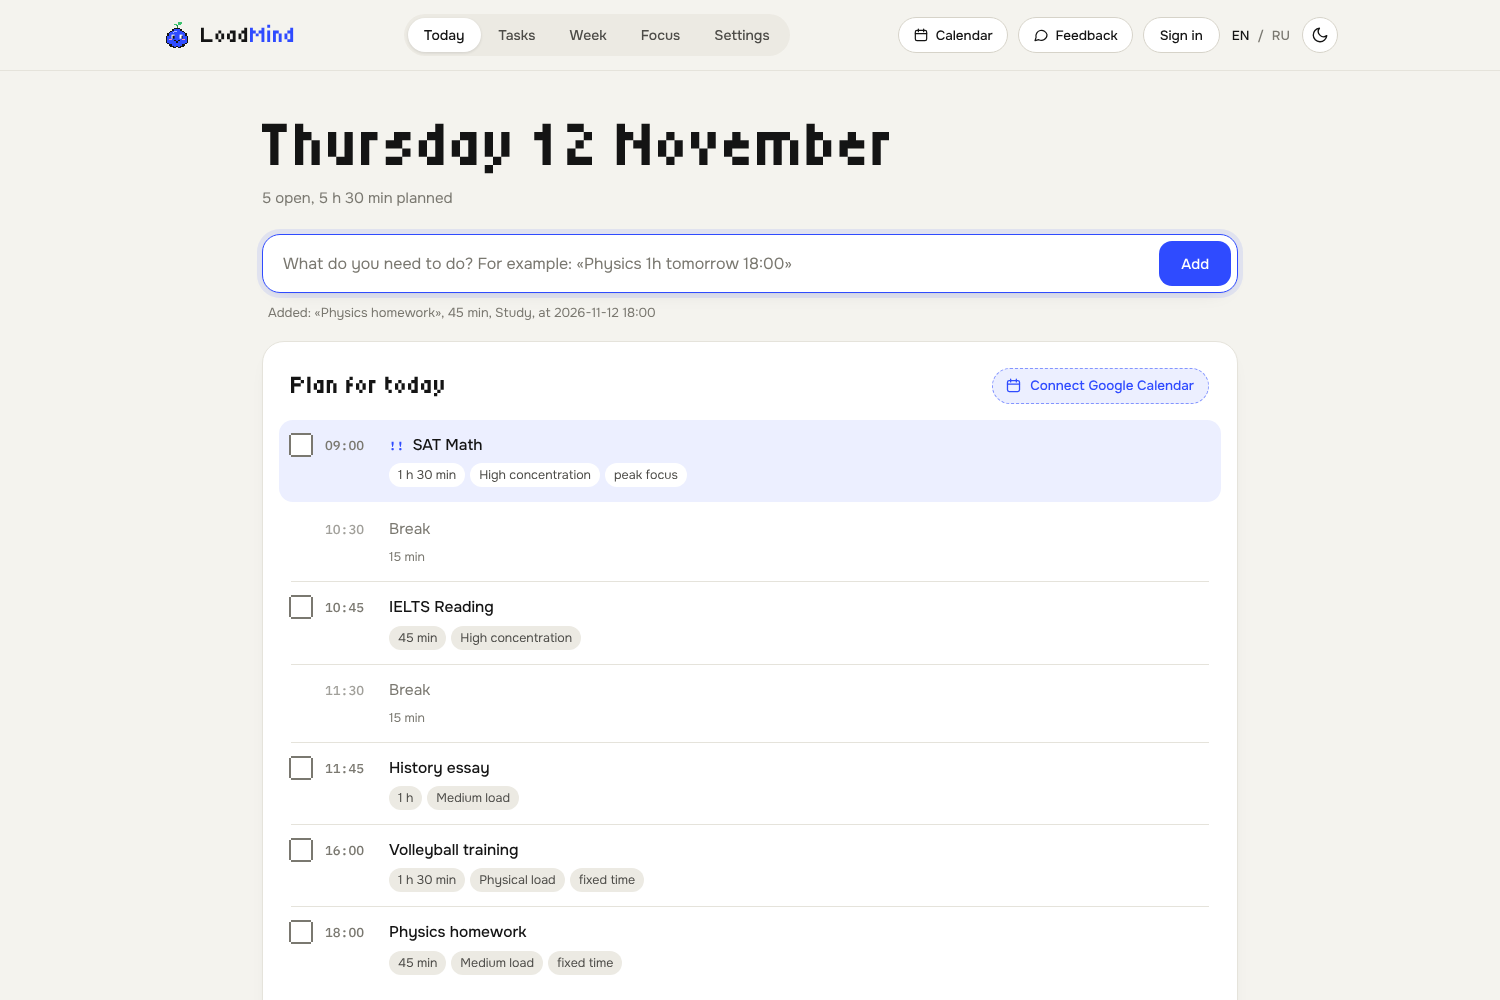
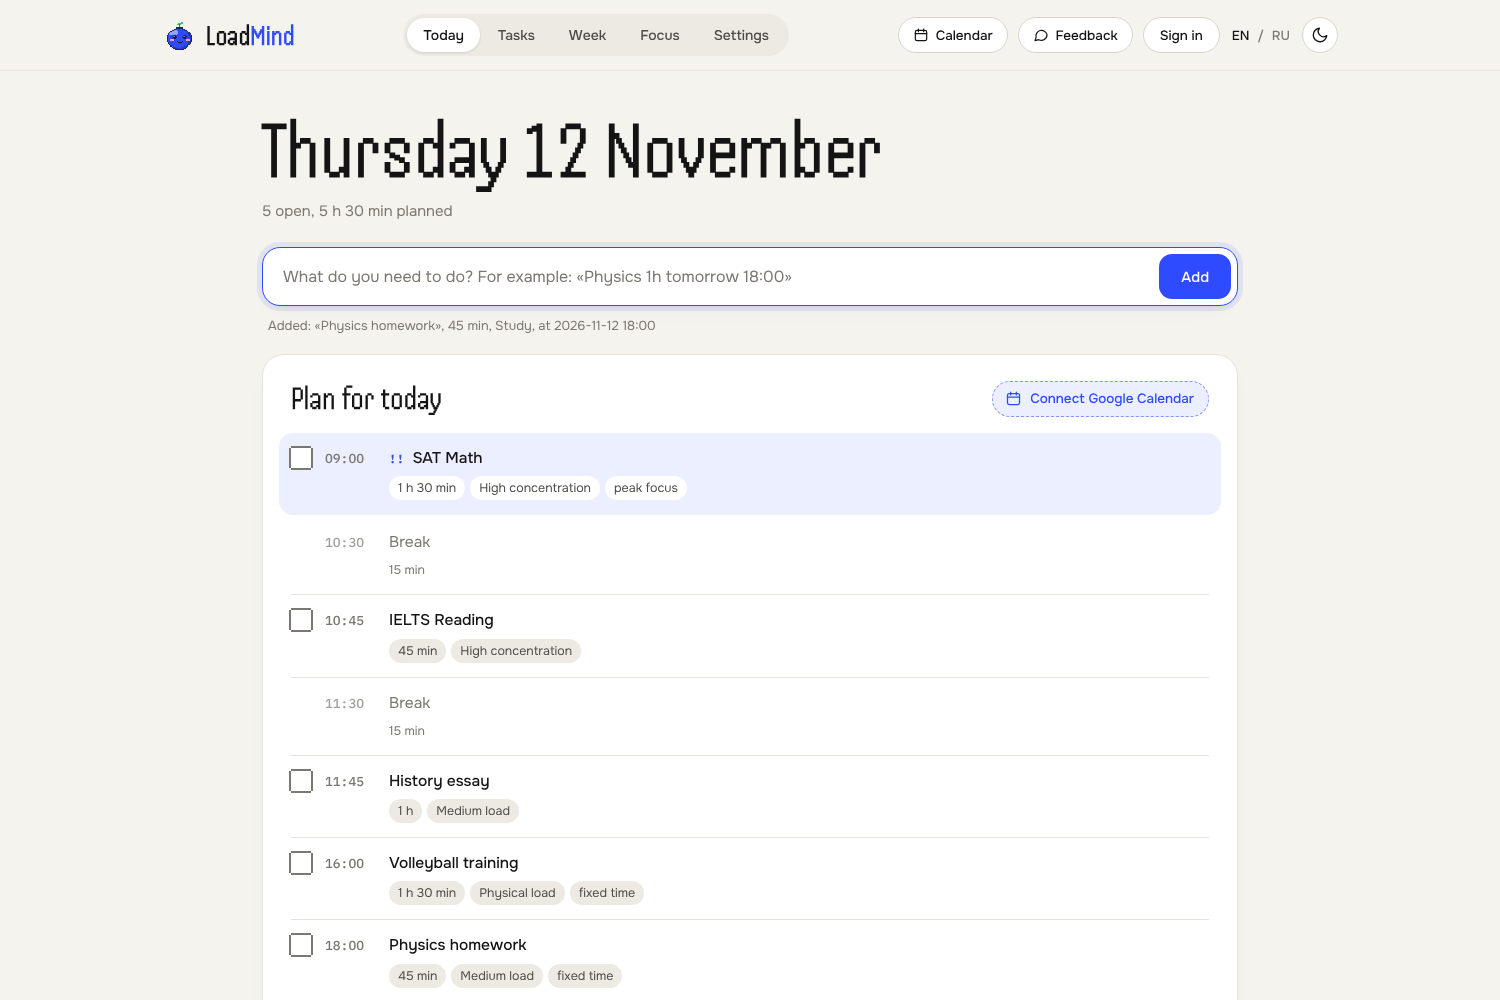
Softer pixels: finer Loady and a thinner pixel font
Loady is now drawn on a grid twice as fine (26 x 24), worked out from an
ellipse, with a dark blue outline instead of black, light from the top left,
a dithered shade and round eyes with a highlight. Headings and numbers use
LoadMind Pixel, a cut of Handjet (OFL) with a plain zero, instead of Tiny5.
Bars, the speech bubble and the section transition use smaller pixels.

diff --git a/mascot.js b/mascot.js
@@ -1,40 +1,41 @@
-/* Loady, the LoadMind character: a small pixel blob that shows how heavy the day is.
+/* Loady, the LoadMind character: a small pixel blueberry that shows how heavy the day is.
    It breathes and blinks, gets worried and sweats when the day is overloaded, sleeps when there is nothing
    to do, and jumps when a task is done. Drawn as SVG squares, coloured with the accent colour. */
 (function () {
-    // 16 x 15 pixels. O outline, B body, H highlight, C cheek. Eyes, mouth and extras are drawn per mood.
-    const BODY = [
-        "......OOOO......",
-        "....OOBBBBOO....",
-        "...OBBHHBBBBO...",
-        "..OBBHBBBBBBBO..",
-        ".OBBBBBBBBBBBBO.",
-        ".OBBBBBBBBBBBBO.",
-        "OBBBBBBBBBBBBBBO",
-        "OBBBBBBBBBBBBBBO",
-        "OBCCBBBBBBBBCCBO",
-        "OBBBBBBBBBBBBBBO",
-        "OBBBBBBBBBBBBBBO",
-        ".OBBBBBBBBBBBBO.",
-        "..OOBBBBBBBBOO..",
-        "...OOOBOOBOOO...",
-        ".....OO..OO.....",
-    ];
-    // [x, y] pixels of each part, on the same grid
+    // 26 x 24 pixels, worked out from an ellipse: o outline, b body, h light, d shade, c cheeks.
+    // Eyes, mouth and extras are drawn per mood on the same grid.
+    const W = 26, H = 24;
+    const BODY = (() => {
+        const g = [], cx = 12.5, cy = 12.6, rx = 11.6, ry = 10.6;
+        for (let y = 0; y < H; y++) { g[y] = []; for (let x = 0; x < W; x++) g[y][x] = ((x + .5 - cx) / rx) ** 2 + ((y + .5 - cy) / ry) ** 2 <= 1 ? "b" : "."; }
+        const inside = (x, y) => g[y] && g[y][x] && g[y][x] !== ".";
+        for (let y = 0; y < H; y++) for (let x = 0; x < W; x++)
+            if (inside(x, y) && (!inside(x - 1, y) || !inside(x + 1, y) || !inside(x, y - 1) || !inside(x, y + 1))) g[y][x] = "o";
+        for (let y = 0; y < H; y++) for (let x = 0; x < W; x++) if (g[y][x] === "b") {
+            const d = ((x + .5 - cx) / rx) ** 2 + ((y + .5 - cy) / ry) ** 2;
+            if ((x - 6) ** 2 / 20 + (y - 6) ** 2 / 9 < 1) g[y][x] = "h";                 // light from the top left
+            else if (d > .58 && x + y > 26 && !(d < .72 && (x + y) % 2)) g[y][x] = "d";   // a soft crescent of shade, dithered at its edge
+        }
+        [[4, 13], [5, 13], [6, 13], [4, 14], [5, 14], [6, 14], [19, 13], [20, 13], [21, 13], [19, 14], [20, 14], [21, 14]].forEach(([x, y]) => g[y][x] = "c");
+        return g;
+    })();
+    const SPROUT = [[12, -1], [12, 0], [12, 1]].map(p => [...p, "lt"])
+        .concat([[14, -3], [15, -3], [11, -2], [12, -2], [13, -2], [14, -2], [15, -2], [10, -1], [11, -1], [13, -1]].map(p => [...p, "lg"]));
+    const open = x => [[x, 9], [x + 1, 9], [x - 1, 10], [x, 10, "w"], [x + 1, 10], [x + 2, 10], [x - 1, 11], [x, 11], [x + 1, 11], [x + 2, 11], [x, 12], [x + 1, 12]];
     const EYES = {
-        open: { w: [[4, 5], [5, 5], [10, 5], [11, 5], [4, 6], [10, 6], [4, 7], [10, 7]], p: [[5, 6], [5, 7], [11, 6], [11, 7]] },
-        closed: { p: [[4, 7], [5, 7], [10, 7], [11, 7]] },
-        happy: { p: [[4, 6], [5, 5], [6, 6], [10, 6], [11, 5], [12, 6]] },
-        worried: { w: [[4, 6], [5, 6], [10, 6], [11, 6], [4, 7], [10, 7]], p: [[5, 7], [11, 7], [4, 4], [5, 5], [11, 4], [10, 5]] },
-        squeeze: { p: [[4, 5], [5, 6], [4, 7], [11, 5], [10, 6], [11, 7]] },
+        open: [...open(7), ...open(16)],
+        closed: [[6, 11], [7, 11], [8, 11], [9, 11], [15, 11], [16, 11], [17, 11], [18, 11]],
+        happy: [[6, 11], [7, 10], [8, 10], [9, 11], [15, 11], [16, 10], [17, 10], [18, 11]],
+        worried: [...open(7), ...open(16), [6, 7], [7, 7], [8, 6], [17, 6], [18, 7], [19, 7]],
+        squeeze: [[6, 9], [7, 10], [8, 11], [7, 12], [6, 13], [19, 9], [18, 10], [17, 11], [18, 12], [19, 13]],
     };
     const MOUTH = {
-        smile: [[6, 9], [7, 10], [8, 10], [9, 9]],
-        flat: [[6, 10], [7, 10], [8, 10], [9, 10]],
-        small: [[7, 10], [8, 10]],
-        o: [[7, 9], [8, 9], [7, 10], [8, 10]],
-        wave: [[5, 10], [6, 9], [7, 10], [8, 9], [9, 10], [10, 9]],
-        big: [[5, 9], [6, 10], [7, 10], [8, 10], [9, 10], [10, 9], [6, 9], [9, 9]],
+        smile: [[10, 15], [11, 16], [12, 16], [13, 16], [14, 16], [15, 15]],
+        flat: [[10, 16], [11, 16], [12, 16], [13, 16], [14, 16], [15, 16]],
+        small: [[12, 16], [13, 16]],
+        o: [[12, 15], [13, 15], [11, 16], [14, 16], [12, 17], [13, 17]],
+        wave: [[9, 16], [10, 15], [11, 16], [12, 15], [13, 16], [14, 15], [15, 16], [16, 15]],
+        big: [[9, 14], [10, 14], [11, 14], [12, 14], [13, 14], [14, 14], [15, 14], [16, 14], [10, 15], [15, 15], [11, 16], [12, 16], [13, 16], [14, 16], [11, 15, "t"], [12, 15, "t"], [13, 15, "t"], [14, 15, "t"]],
     };
     const MOODS = {
         calm: { eyes: "open", mouth: "smile", say: ["A light day. Time for a walk too", "Лёгкий день. Можно и погулять"] },
@@ -42,31 +43,28 @@
         busy: { eyes: "worried", mouth: "o", sweat: 1, say: ["That's a lot. Let's drop something", "Многовато. Давай что-то перенесём"] },
         over: { eyes: "squeeze", mouth: "wave", sweat: 2, steam: true, say: ["Too much! Press «Unload today»", "Это слишком! Жми «Разгрузить сегодня»"] },
         sleep: { eyes: "closed", mouth: "small", zzz: true, say: ["Nothing planned. I'm resting", "Пока ничего нет. Я отдыхаю"] },
-        happy: { eyes: "happy", mouth: "big", say: ["Done! One less", "Готово! Минус одна"] },
+        happy: { eyes: "happy", mouth: "big", stars: true, say: ["Done! One less", "Готово! Минус одна"] },
     };
     const LEVEL_MOOD = ["calm", "ok", "busy", "over"];
     const isRuNow = () => typeof isRu === "function" && isRu();
+    const CLS = { o: "lo", b: "lb", h: "lh", d: "ld2", c: "lc" };
 
-    const rect = (x, y, cls) => `<rect x="${x}" y="${y}" width="1.02" height="1.02" class="${cls}"/>`;
+    const rect = (x, y, cls) => `<rect x="${x}" y="${y}" width="1" height="1" class="${cls}"/>`;
+    const dots = (pts, cls) => pts.map(([x, y, k]) => rect(x, y, k === "w" ? "lw" : k === "t" ? "ltg" : cls)).join("");
     function svg(mood) {
         const m = MOODS[mood] || MOODS.calm;
         let body = "";
-        BODY.forEach((row, y) => [...row].forEach((c, x) => {
-            if (c === ".") return;
-            body += rect(x, y, { O: "lo", B: "lb", H: "lh", C: "lc" }[c]);
-        }));
-        // a little sprout on top: the mind that grows
-        body += [[8, -1], [8, -2]].map(([x, y]) => rect(x, y, "lt")).join("")
-            + [[6, -3], [7, -3], [7, -2], [9, -4], [10, -4], [9, -3], [10, -3], [11, -4]].map(([x, y]) => rect(x, y, "lg")).join("");
-        const eye = (k) => { const e = EYES[k]; return (e.w || []).map(([x, y]) => rect(x, y, "lw")).join("") + e.p.map(([x, y]) => rect(x, y, "lo")).join(""); };
-        const face = `<g class="l-eyes${m.eyes === "open" ? " blinkable" : ""}">${eye(m.eyes)}</g>` + (m.eyes === "open" ? `<g class="l-blink">${eye("closed")}</g>` : "")
-            + MOUTH[m.mouth].map(([x, y]) => rect(x, y, "lo")).join("");
+        BODY.forEach((row, y) => row.forEach((c, x) => { if (c !== ".") body += rect(x, y, CLS[c]); }));
+        body += SPROUT.map(([x, y, c]) => rect(x, y, c)).join("");
+        const face = `<g class="l-eyes${m.eyes === "open" ? " blinkable" : ""}">${dots(EYES[m.eyes], "lk")}</g>`
+            + (m.eyes === "open" ? `<g class="l-blink">${dots(EYES.closed, "lk")}</g>` : "") + dots(MOUTH[m.mouth], "lk");
         let extra = "";
-        if (m.sweat) extra += `<g class="l-sweat">${rect(15, 3, "ld")}${rect(15, 4, "ld")}${rect(16, 4, "ld")}</g>`;
-        if (m.sweat > 1) extra += `<g class="l-sweat l-sweat2">${rect(-1, 5, "ld")}${rect(-1, 6, "ld")}${rect(-2, 6, "ld")}</g>`;
-        if (m.steam) extra += `<g class="l-steam">${rect(3, -2, "ls")}${rect(4, -3, "ls")}${rect(12, -2, "ls")}${rect(11, -4, "ls")}</g>`;
-        if (m.zzz) extra += `<g class="l-zzz">${[[14, -4], [15, -4], [16, -4], [17, -4], [16, -3], [15, -2], [14, -1], [15, -1], [16, -1], [17, -1]].map(([x, y]) => rect(x, y, "lo")).join("")}</g>`;
-        return `<svg class="loady-svg" viewBox="-3 -5 22 21" shape-rendering="crispEdges" aria-hidden="true"><g class="l-body">${body}${face}</g>${extra}</svg>`;
+        if (m.sweat) extra += `<g class="l-sweat">${dots([[23, 6], [23, 7], [24, 7], [23, 8], [24, 8]], "ls")}</g>`;
+        if (m.sweat > 1) extra += `<g class="l-sweat l-sweat2">${dots([[1, 8], [1, 9], [0, 9], [1, 10], [0, 10]], "ls")}</g>`;
+        if (m.steam) extra += `<g class="l-steam">${dots([[5, -1], [6, -2], [5, -3], [19, -1], [20, -2], [19, -3]], "lst")}</g>`;
+        if (m.zzz) extra += `<g class="l-zzz">${dots([[20, -5], [21, -5], [22, -5], [23, -5], [22, -4], [21, -3], [20, -2], [21, -2], [22, -2], [23, -2]], "lk")}</g>`;
+        if (m.stars) extra += `<g class="l-stars">${dots([[26, 2], [25, 3], [26, 3], [27, 3], [26, 4], [-2, 7], [-3, 8], [-2, 8], [-1, 8], [-2, 9]], "ly")}</g>`;
+        return `<svg class="loady-svg" viewBox="-4 -6 34 31" shape-rendering="crispEdges" aria-hidden="true"><g class="l-body">${body}${face}</g>${extra}</svg>`;
     }
 
     // one character element: <div class="loady" data-mood="...">

diff --git a/design.css b/design.css
@@ -289,13 +289,17 @@ textarea { border-radius: var(--r-row); padding: 14px 16px; }
 /* ---------- Loady, the pixel character (mascot.js) ---------- */
 .loady { display: inline-flex; align-items: center; }
 .loady-svg { display: block; width: 100%; height: auto; overflow: visible; }
-.loady .lo { fill: #141414; }
+.loady .lo { fill: color-mix(in srgb, var(--accent) 38%, #050a2e); }   /* outline: a dark shade of the body, not black */
 .loady .lb { fill: var(--accent); }
-.loady .lh { fill: color-mix(in srgb, var(--accent) 40%, #fff); }
-.loady .lc { fill: #ff8fb4; }
+.loady .lh { fill: color-mix(in srgb, var(--accent) 52%, #fff); }
+.loady .ld2 { fill: color-mix(in srgb, var(--accent) 74%, #000); }
+.loady .lc { fill: #ff97bb; }
+.loady .lk { fill: #0d1240; }
 .loady .lw { fill: #fff; }
-.loady .ld { fill: #6cc4ff; }
-.loady .ls { fill: var(--ink-3); }
+.loady .ltg { fill: #ff6b8a; }
+.loady .ls { fill: #7cc8ff; }
+.loady .lst { fill: #b4b0a6; }
+.loady .ly { fill: #ffc531; }
 .loady .lg { fill: #3cc26e; }
 .loady .lt { fill: #1f8a4c; }
 .l-body { animation: lBob 1.8s steps(1) infinite; }
@@ -305,6 +309,8 @@ textarea { border-radius: var(--r-row); padding: 14px 16px; }
 .l-sweat2 { animation-delay: -.5s; }
 .l-steam { animation: lSteam 1s steps(3) infinite; }
 .l-zzz { animation: lZzz 2.4s steps(4) infinite; }
+.l-stars { animation: lStars .8s steps(2) infinite; }
+@keyframes lStars { 50% { opacity: .35; } }
 .loady[data-mood="busy"] .l-body { animation-duration: .9s; }
 .loady[data-mood="over"] .l-body { animation: lShake .28s steps(1) infinite; }
 .loady[data-mood="sleep"] .l-body { animation-duration: 3.2s; }
@@ -319,7 +325,7 @@ textarea { border-radius: var(--r-row); padding: 14px 16px; }
 @keyframes lJump { 0%, 100% { transform: none; } 30% { transform: translateY(-14%); } 60% { transform: translateY(-6%); } }
 
 .logo { display: flex; align-items: center; }
-.loady-logo { width: 30px; flex: none; margin-right: 9px; }
+.loady-logo { width: 36px; flex: none; margin-right: 8px; }
 .loady-logo .l-body { animation: none; }
 
 /* in the overload card: title on top, the character with its line, the number on the right */
@@ -327,18 +333,18 @@ textarea { border-radius: var(--r-row); padding: 14px 16px; }
 .overload-header > div:first-child { grid-area: t; }
 .overload-header > .score { grid-area: s; align-self: end; }
 .loady-main { grid-area: l; gap: 16px; }
-.loady-main .loady-svg { width: 104px; flex: none; }
+.loady-main .loady-svg { width: 116px; flex: none; }
 .loady-say { position: relative; margin: 0 0 0 6px; padding: 10px 14px; max-width: 300px; background: var(--paper-raised); color: var(--ink);
     font: 500 14.5px / 1.35 var(--sans);
-    box-shadow: 0 -3px 0 0 var(--ink), 0 3px 0 0 var(--ink), -3px 0 0 0 var(--ink), 3px 0 0 0 var(--ink); }
-.loady-say::before { content: ""; position: absolute; left: -9px; top: 50%; width: 6px; height: 6px; margin-top: -3px; background: var(--ink); box-shadow: -3px 3px 0 0 var(--ink); }
+    box-shadow: 0 -2px 0 0 var(--ink), 0 2px 0 0 var(--ink), -2px 0 0 0 var(--ink), 2px 0 0 0 var(--ink); }
+.loady-say::before { content: ""; position: absolute; left: -7px; top: 50%; width: 4px; height: 4px; margin-top: -2px; background: var(--ink); box-shadow: -2px 2px 0 0 var(--ink); }
 .loady-main[data-mood="over"] .loady-say, .loady-main[data-mood="busy"] .loady-say { background: var(--accent-soft); }
 @media (max-width: 640px) {
     .overload-header { grid-template-areas: "t s" "l l"; }
-    .loady-main .loady-svg { width: 78px; }
+    .loady-main .loady-svg { width: 88px; }
     .loady-say { font-size: 14px; max-width: none; }
 }
-.loady-empty { display: block; width: 88px; margin: 4px 0 12px; }
+.loady-empty { display: block; width: 100px; margin: 4px 0 12px; }
 .empty { display: flex; flex-direction: column; align-items: flex-start; }
 
 /* ---------- pixel numbers ---------- */
@@ -443,26 +449,39 @@ textarea { border-radius: var(--r-row); padding: 14px 16px; }
 }
 .task-row .cal-link { white-space: nowrap; }
 
-/* ---------- type: one pixel face (Tiny5) for headings and numbers, Onest for reading ---------- */
-:root { --display: "Tiny5", var(--sans); --pixel: "Tiny5", var(--mono); }
-.logo { font: 400 23px / 1 var(--display); letter-spacing: 0; }
-.logo em { font-style: normal; font-weight: 400; color: var(--accent); }
-.header h1 { font: 400 clamp(38px, 6vw, 66px) / 1.02 var(--display); letter-spacing: 0; }
-.block h2, .coach h2 { font: 400 26px / 1.15 var(--display); letter-spacing: 0; }
-@media (max-width: 640px) { .block h2, .coach h2 { font-size: 23px; } .logo { font-size: 21px; } }
-.auth-box h2 { font: 400 27px / 1.15 var(--display); letter-spacing: 0; }
-.overload-header .score, #score { font: 400 clamp(78px, 10vw, 120px) / .9 var(--pixel); letter-spacing: 0; }
-.stat-value { font: 400 44px / 1 var(--pixel); letter-spacing: 0; }
-.lm-card strong { font: 400 38px / 1 var(--pixel); letter-spacing: 0; }
-.lm-ring span { font: 400 16px var(--pixel); letter-spacing: 0; }
-.pomo-center strong { font: 400 clamp(56px, 7vw, 78px) / 1 var(--pixel); letter-spacing: 0; margin: 4px 0; }
-@media (max-width: 480px) { .lm-card strong { font-size: 30px; } }
+/* ---------- type: a fine pixel face for headings and numbers, Onest for reading ----------
+   LoadMind Pixel is Handjet (OFL, see fonts/OFL-Handjet.txt) cut down to Latin and Cyrillic, with a plain zero:
+   the original 0 has dots inside, here it uses the same shape without them. */
+@font-face { font-family: "LoadMind Pixel"; src: url("fonts/LoadMindPixel.woff") format("woff"); font-weight: 400 700; font-display: swap; }
+:root { --display: "LoadMind Pixel", var(--sans); --pixel: "LoadMind Pixel", var(--mono); }
+.logo { font: 600 29px / 1 var(--display); letter-spacing: 0; }
+.logo em { font-style: normal; font-weight: 600; color: var(--accent); }
+.header h1 { font: 500 clamp(48px, 7.4vw, 82px) / .98 var(--display); letter-spacing: 0; }
+.subtitle { margin-top: 2px; }
+.block h2, .coach h2 { font: 500 33px / 1.05 var(--display); letter-spacing: 0; }
+@media (max-width: 640px) { .block h2, .coach h2 { font-size: 30px; } .logo { font-size: 27px; } }
+.auth-box h2 { font: 500 34px / 1.05 var(--display); letter-spacing: 0; }
+.overload-header .score, #score { font: 600 clamp(100px, 12vw, 148px) / .8 var(--pixel); letter-spacing: 0; }
+.stat-value { font: 500 58px / .9 var(--pixel); letter-spacing: 0; }
+.stat-value span { font-size: 16px; }
+.lm-card strong { font: 500 52px / .9 var(--pixel); letter-spacing: 0; }
+.lm-ring span { font: 600 20px var(--pixel); letter-spacing: 0; }
+.pomo-center strong { font: 500 clamp(76px, 9vw, 104px) / .9 var(--pixel); letter-spacing: 0; margin: 2px 0; }
+@media (max-width: 480px) { .lm-card strong { font-size: 42px; } }
 .lm-tip-text { font: 500 19px / 1.45 var(--sans); letter-spacing: 0; }
-.lm-ask-q { font: 400 23px / 1.25 var(--display); }
-.quote p { font: 400 clamp(24px, 3vw, 34px) / 1.25 var(--display); letter-spacing: 0; max-width: 30ch; }
+.lm-ask-q { font: 500 29px / 1.1 var(--display); }
+.quote p { font: 400 clamp(30px, 3.8vw, 44px) / 1.1 var(--display); letter-spacing: 0; max-width: 30ch; }
 .day-name span { font: 600 15.5px var(--sans); }
-.lm-foot span { font: 400 17px var(--display); color: var(--ink-2); }
-.cal-num { font: 400 17px var(--display); }
+.lm-foot span { font: 600 21px var(--display); color: var(--ink-2); }
+.cal-num { font: 600 21px var(--display); }
+.time { font: 500 13px var(--mono); }
+
+/* finer pixel bars */
+.large-progress { height: 12px; background: repeating-linear-gradient(to right, var(--soft) 0 7px, transparent 7px 9px); }
+.large-progress-fill { -webkit-mask: repeating-linear-gradient(to right, #000 0 7px, transparent 7px 9px); mask: repeating-linear-gradient(to right, #000 0 7px, transparent 7px 9px); transition: width .9s steps(30, end); }
+.day-bar, .lm-bar { background: repeating-linear-gradient(to right, var(--soft) 0 5px, transparent 5px 7px); }
+.day-bar i, .lm-bar i { -webkit-mask: repeating-linear-gradient(to right, #000 0 5px, transparent 5px 7px); mask: repeating-linear-gradient(to right, #000 0 5px, transparent 5px 7px); }
+.focus-week i { -webkit-mask: repeating-linear-gradient(to top, #000 0 4px, transparent 4px 5px); mask: repeating-linear-gradient(to top, #000 0 4px, transparent 4px 5px); }
 
 /* top bar: a bit wider than the page so the labelled buttons fit; the menu never runs under the logo */
 .topbar .wrap { max-width: 1240px; }

diff --git a/index.html b/index.html
@@ -17,9 +17,9 @@
 
     <link rel="preconnect" href="https://fonts.googleapis.com">
     <link rel="preconnect" href="https://fonts.gstatic.com" crossorigin>
-    <link href="https://fonts.googleapis.com/css2?family=Onest:wght@400;500;600&family=Tiny5&display=swap" rel="stylesheet">
+    <link href="https://fonts.googleapis.com/css2?family=Onest:wght@400;500;600&display=swap" rel="stylesheet">
     <link rel="stylesheet" href="style.css?v=20261112b">
-    <link rel="stylesheet" href="design.css?v=20261112e">
+    <link rel="stylesheet" href="design.css?v=20261112g">
 
     <script>
     /* one address for everyone: the old workers.dev address moves to loadmind.dev, so sign-ins and data stay in one place */
@@ -531,8 +531,8 @@
     <script src="research.js?v=20261112e"></script>
     <script src="feedback.js?v=20261112e"></script>
     <script src="ui.js?v=20261112e"></script>
-    <script src="mascot.js?v=20261112e"></script>
-    <script src="design.js?v=20261112e"></script>
+    <script src="mascot.js?v=20261112g"></script>
+    <script src="design.js?v=20261112g"></script>
 
 </body>
 </html>

diff --git a/design.js b/design.js
@@ -108,7 +108,7 @@
     let anim = 0;
     function dissolve() {
         if (still) return;
-        const W = innerWidth, H = innerHeight, S = W < 640 ? 26 : 34;
+        const W = innerWidth, H = innerHeight, S = W < 640 ? 14 : 18;
         cv.width = W; cv.height = H;
         const cols = Math.ceil(W / S), rows = Math.ceil(H / S), n = cols * rows;
         const order = Array.from({ length: n }, (_, i) => i);
